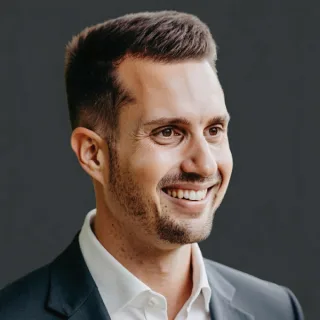
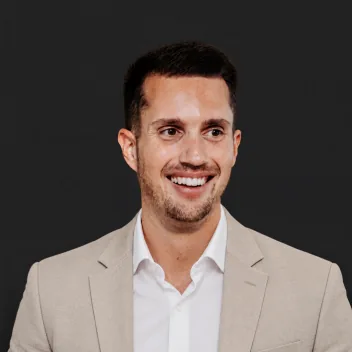
Replace portrait with optimized responsive images

diff --git a/src/pages/Index.tsx b/src/pages/Index.tsx
@@ -115,12 +115,17 @@ const Index = () => {
 
             <motion.figure variants={fadeUp} className="mt-10 flex flex-col gap-2.5 md:mt-1.5">
               <picture>
-                <source srcSet="/profile.webp" type="image/webp" />
+                <source
+                  srcSet="/profile-176.webp 176w, /profile.webp 352w, /profile-528.webp 528w"
+                  sizes="176px"
+                  type="image/webp"
+                />
                 <img
-                  src="/profile.png"
+                  src="/profile.jpg"
                   alt="Max Ritter"
                   width={176}
                   height={176}
+                  fetchPriority="high"
                   decoding="async"
                   className="block h-44 w-44 rounded-xl border border-border object-cover"
                 />

diff --git a/src/components/SEO.tsx b/src/components/SEO.tsx
@@ -51,7 +51,7 @@ const SEO = ({
   };
 
   const personSchema = type === "Person" ? {
-    "image": `${SITE_URL}/profile.png`,
+    "image": `${SITE_URL}/profile.jpg`,
     "jobTitle": "IT Freelancer \u2014 AI, Data, Cloud & DevOps",
     "knowsAbout": [
       "Agentic Engineering",
